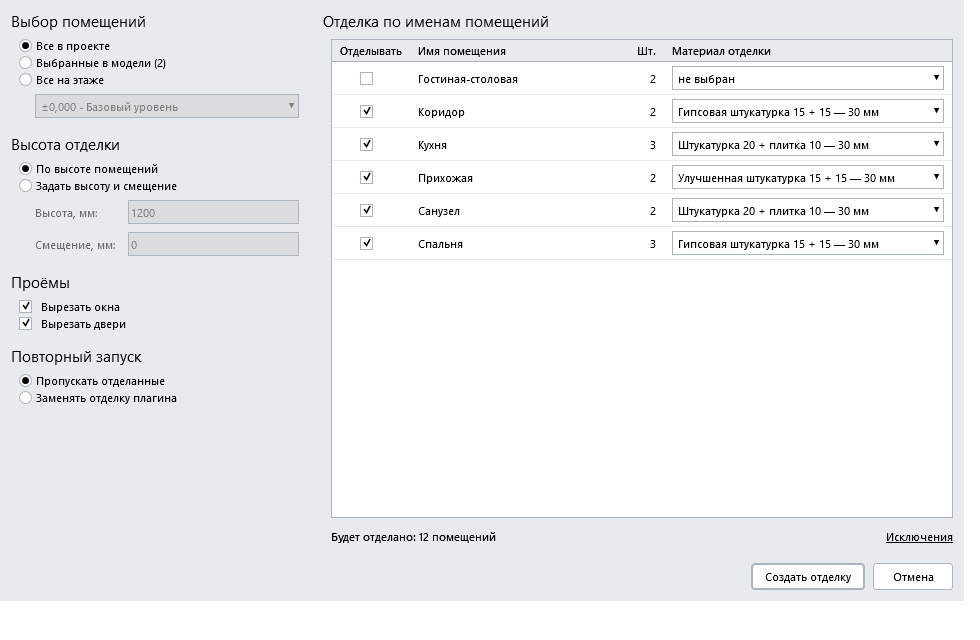
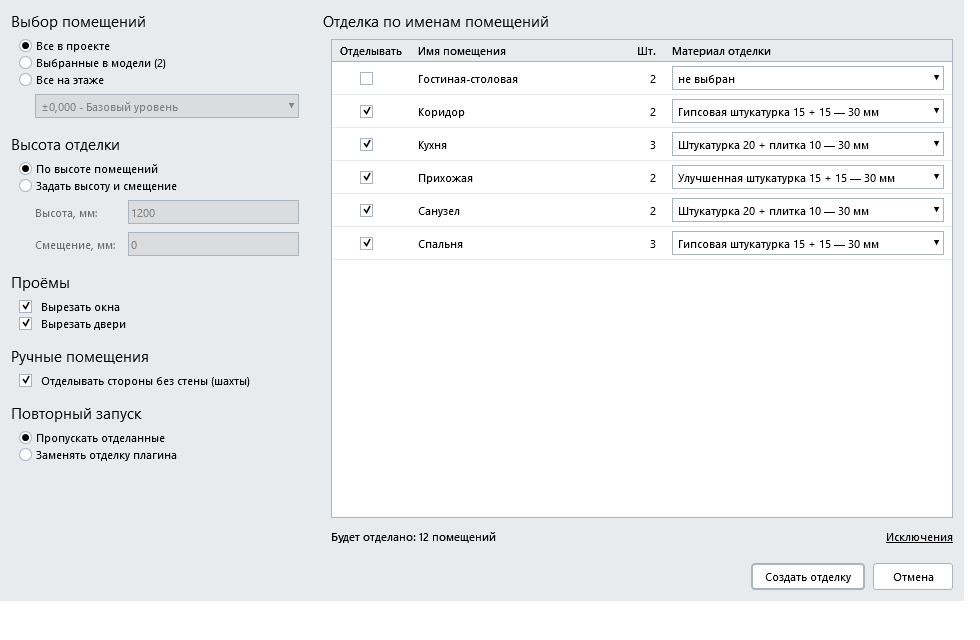
Версия 0.2: центральная привязка, студии и ручные помещения, шахты

Changed region(s): [[0.0, 0.5312, 0.2449, 0.7188]]

diff --git a/README.md b/README.md
@@ -2,22 +2,32 @@
 
 Плагин для [Renga](https://rengabim.com): строит отделку стен по контурам помещений. Вдоль каждого выбранного помещения создаёт тонкие стены из выбранного многослойного материала (например, «штукатурка 20 + плитка 10») и сразу вырезает в них проёмы под окна и двери.
 
-Версия 0.1.
+Версия 0.2.
 
 ![Окно «Отделка стен»](docs/window-main.png)
 
 > Картинки в этом README - отрисовка окон плагина в тестовом приложении (с условными данными), а не снимки экрана из Renga: в самой Renga у окон есть заголовок и рамка, а имена и материалы будут вашими.
 
 ## Возможности
-- **Выбор помещений**: все в проекте, выбранные в модели (выделите помещения перед запуском) или все на выбранном этаже.
+- **Выбор помещений** (три режима): все в проекте, выбранные в модели (выделите помещения перед запуском) или все на выбранном этаже.
+- **Центральная привязка**: стена отделки строится по линии, сдвинутой от грани стены внутрь помещения на половину толщины отделки. Торцы несущих стен при этом не срезаются.
 - **Правила «имя помещения → материал»**: для каждого имени помещения (например, «Кухня») выбирается материал отделки из многослойных материалов группы «Стены»; правило действует на все помещения с этим именем. Выбор запоминается между запусками.
 - **Исключения**: отдельное окно со списком помещений - можно снять отметку у помещения или задать ему материал в обход правила по имени.
 - **Высота отделки**: по высоте помещения или заданная высота со смещением от уровня (например, панель на 1200 мм от пола). Проёмы окон и дверей обрезаются по этой высоте.
 - **Проёмы**: против каждого окна и каждой двери в стене отделки вырезается пустой проём того же размера и на том же месте (можно отключить отдельно для окон и дверей).
 - **Колонны внутри помещений** облицовываются так же, как колонны и стены на границе помещения.
-- **Автоматические и ручные помещения**: автоматические Renga перестраивает сама по лицевой грани отделки (плагин следит, чтобы помещение не пропало); границы ручных помещений плагин сдвигает сам, а если не получилось - показывает их списком и умеет выделить в модели.
+- **Ручные помещения и студии**: отделка строится по собственной границе ручного помещения. В студии (несколько ручных помещений в одном пространстве) стороны, которыми помещения касаются друг друга, не отделываются. Галочка **«Отделывать стороны без стены (шахты)»** включает отделку сторон, у которых нет стены (например, шахты).
+- **Сдвиг границы ручных помещений**: границы ручных помещений плагин сдвигает по стенам сам; если не получилось - показывает такие помещения списком и умеет выделить их в модели. Автоматические помещения Renga перестраивает сама по лицевой грани отделки (плагин следит, чтобы помещение не пропало).
 - **Повторный запуск**: «Пропускать отделанные» или «Заменять отделку плагина» (удаляется только то, что создал сам плагин, по метке).
-- **Отмена**: два шага Ctrl+Z (три в режиме «Заменить» или при проёмах непрямоугольной формы). Итоговое окно подсказывает, сколько раз нажать.
+- **Отмена**: два шага Ctrl+Z; три - при проёмах непрямоугольной формы или в режиме «Заменить»; при «Заменить» на студии - до пяти. Итоговое окно подсказывает, сколько раз нажать.
+
+## Что нового в 0.2
+- Центральная привязка стен отделки: линия на половину толщины внутрь, торцы несущих стен не срезаются.
+- Ручные помещения: отделка по собственной границе, поддержка студий, галочка «Отделывать стороны без стены (шахты)», сдвиг границы по стенам.
+- Правила «имя → материал» и «Исключения».
+- Быстрее чтение модели.
+- Исправления окон: привязки таблицы, ширина окна «Исключения».
+- Окно подтверждения перед записью убрано: итоговое окно показывает результат и подсказывает, сколько раз нажать Ctrl+Z.
 
 ![Окно «Исключения»](docs/window-exceptions.png)
 
@@ -28,9 +38,9 @@
 - Renga с поддержкой плагинов .NET 8 (в манифесте указан API 2.49).
 
 ## Установка
-1. Скачайте архив `WallFinish-0.1.zip` на странице [Releases](../../releases).
+1. Скачайте архив `WallFinish-0.2.zip` на странице [Releases](../../releases).
 2. Закройте Renga.
-3. Распакуйте архив и скопируйте папку `WallFinish` в `C:\Program Files\Renga Professional\Plugins\` (потребуются права администратора).
+3. Распакуйте архив и скопируйте папку `WallFinish` в `C:\Program Files\Renga Professional\Plugins\` (потребуются права администратора). При обновлении с 0.1 замените папку `WallFinish` целиком.
 4. Запустите Renga: на ленте появится кнопка «Отделка стен».
 
 Если кнопки нет, посмотрите журнал `%localappdata%\Renga Software\Renga Professional\AecApp.log`. Журнал самого плагина - `%APPDATA%\WallFinish\`.
@@ -41,16 +51,18 @@
 3. Выберите, какие помещения брать: все, выбранные или на этаже.
 4. В таблице справа выберите материал для каждого имени помещения. Строки без материала отделываться не будут.
 5. При необходимости откройте «Исключения» и поправьте отдельные помещения.
-6. Задайте высоту отделки, галочки «Вырезать окна/двери» и режим повторного запуска.
+6. Задайте высоту отделки, галочки «Вырезать окна/двери» и «Отделывать стороны без стены (шахты)» (для ручных помещений) и режим повторного запуска.
 7. Нажмите «Создать отделку» и дождитесь итогового окна: в нём числа и предупреждения. Запись больших проектов может занять до минуты, Renga в это время не отвечает (около 0,2 с на стену).
 8. Результат можно отменить Ctrl+Z (см. подсказку в итоговом окне).
 
 ## Известные ограничения
 - **Порядок слоёв**: первый слой материала (слой 0) оказывается у несущей стены, последний - в помещении. Это наблюдение автора, программно Renga этого не сообщает: проверьте на своём материале (например, «штукатурка 20 + плитка 10»).
-- Если концы стен отделки совпадают с концами несущей стены, Renga срезает у несущей стены небольшой клин в углу. Отмена Ctrl+Z возвращает стену точно.
-- Углы стен отделки соединяет сама Renga; непрямые углы специально не проверялись.
+- Стороны ручного помещения, нарисованные не по грани стены (отступ больше 5 мм), плагин не относит ни к какой стене. При включённой галочке «Отделывать стороны без стены (шахты)» такие стороны отделываются по линии помещения.
+- Открытые стороны (лоджия, проём без стены) при включённой галочке «Отделывать стороны без стены (шахты)» тоже получат отделку - снимите галочку, если это не нужно.
+- Элементы (например, вентблоки) плагин не читает. Шахты закрывает правило «сторона без стены и без соседнего помещения».
+- Круглые колонны и углы не 90° (в том числе дуги) проверены только автоматическими тестами, не в самой Renga.
 - Пустые проёмы отделки попадают в спецификации окон и дверей. Чтобы их исключить, отфильтруйте по свойству «Отделка стен: помещение» (оно задано у всех объектов плагина).
-- Круглые колонны не проверялись. Шахты и другие внутренние контуры из стен не отделываются.
+- Первое открытие окна плагина на очень больших проектах может занимать до минуты (читается вся модель).
 - Во время записи нет индикатора прогресса.
 - Автоматическое помещение может перестроиться иначе, если его контрольная точка расположена рядом со стеной. В таком случае плагин предупреждает в итоговом окне («помещение пропало после отделки, проверьте»).
 - Если после отделки сдвинуть окно или дверь, отделка сама не обновится - запустите плагин в режиме «Заменить».
